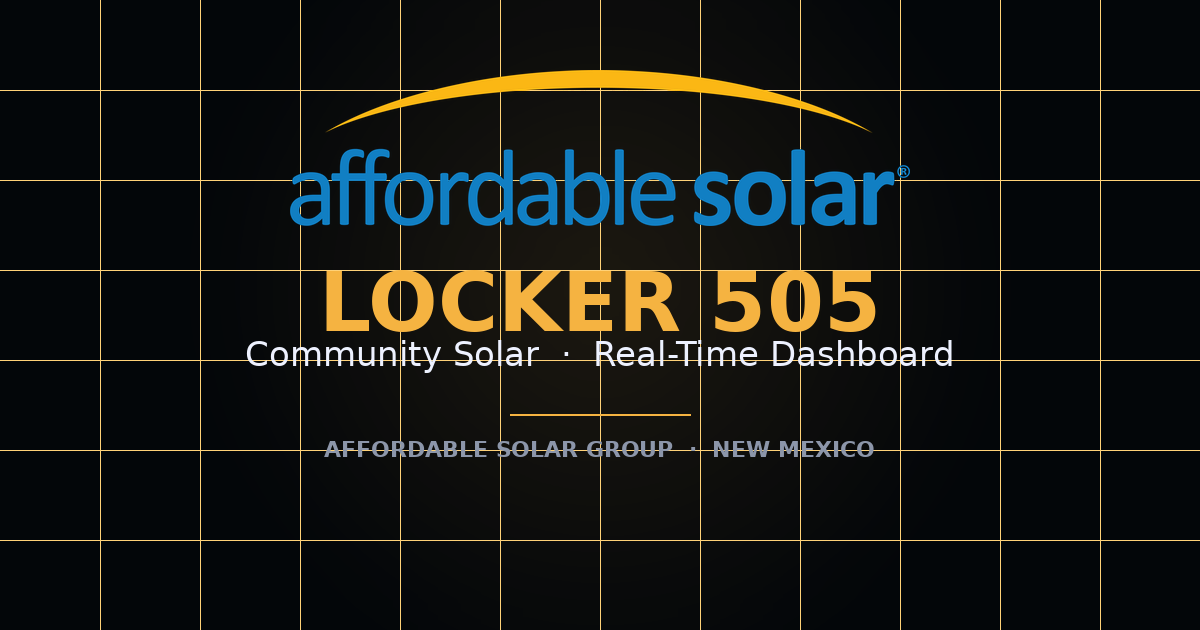
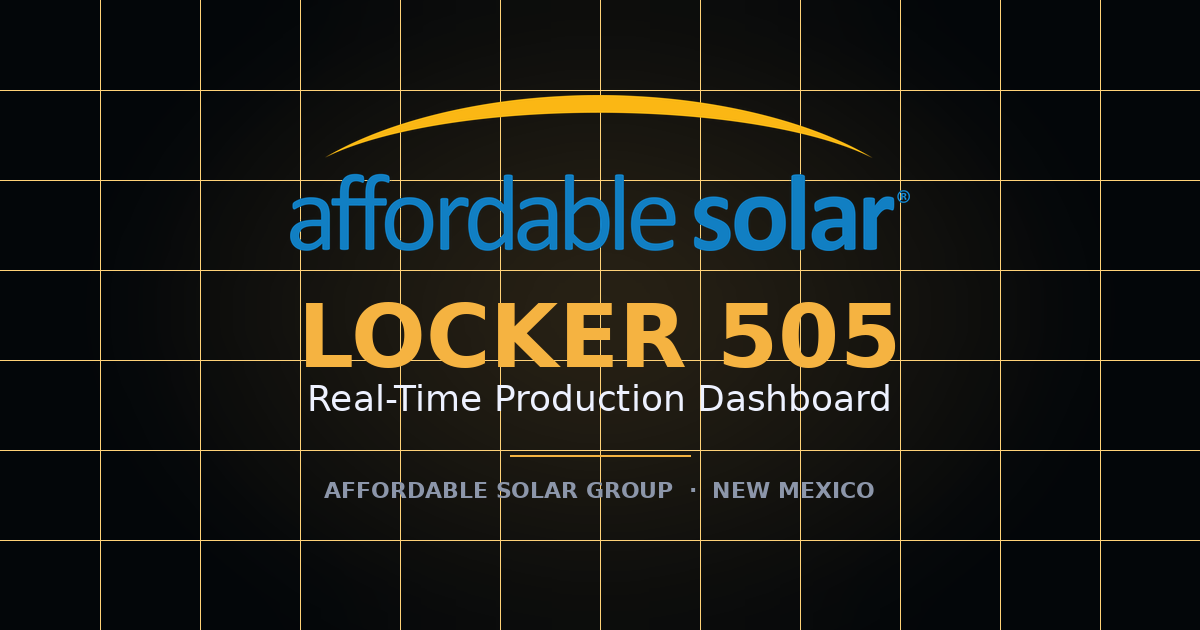
Per-site OG preview cards with site name in gold

diff --git a/scripts/generate-og-images.py b/scripts/generate-og-images.py
@@ -85,23 +85,25 @@ def load_font(path, size):
 
 
 def draw_background(img: Image.Image):
-    """Matte-black panel with gold grid lines + radial glow behind the logo."""
+    """Matte-black panel with subtle gold grid + a warm glow behind the logo."""
     draw = ImageDraw.Draw(img, "RGBA")
 
-    # Soft gold radial glow centered roughly where the logo + headline sit.
+    # Big soft gold radial glow, brighter/bigger than before so the card feels
+    # lit up rather than flat. Roughly centered behind the logo + headline.
     glow = Image.new("RGBA", (W, H), (0, 0, 0, 0))
     gdraw = ImageDraw.Draw(glow)
-    cx, cy = W // 2, H // 2 - 30
-    for r in range(420, 40, -40):
-        alpha = max(0, min(255, int(28 * (1 - r / 420))))
+    cx, cy = W // 2, 310
+    for r in range(520, 40, -24):
+        # Peak alpha ~44 near center, tapers to 0 at edge.
+        alpha = max(0, min(255, int(44 * (1 - r / 520))))
         gdraw.ellipse(
-            [cx - r, cy - r, cx + r, cy + r],
-            fill=(255, 190, 80, alpha),
+            [cx - r, cy - int(r * 0.72), cx + r, cy + int(r * 0.72)],
+            fill=(255, 195, 90, alpha),
         )
-    glow = glow.filter(ImageFilter.GaussianBlur(40))
+    glow = glow.filter(ImageFilter.GaussianBlur(50))
     img.alpha_composite(glow)
 
-    # Grid — evenly spaced vertical + horizontal lines.
+    # Grid — subtle, evenly spaced.
     cols, rows = 12, 7
     for i in range(1, cols):
         x = int(W * i / cols)
@@ -111,10 +113,10 @@ def draw_background(img: Image.Image):
         draw.line([(0, y), (W, y)], fill=GRID, width=1)
 
 
-def paste_logo(img: Image.Image) -> int:
+def paste_logo(img: Image.Image, y: int = 80) -> int:
     """Paste the affordable solar logo centered horizontally; return y-bottom."""
     if not LOGO.exists():
-        return 220
+        return y + 160
     logo = Image.open(LOGO).convert("RGBA")
     # Target width ~620px; preserve aspect ratio.
     target_w = 620
@@ -122,7 +124,6 @@ def paste_logo(img: Image.Image) -> int:
     target_h = int(logo.height * ratio)
     logo = logo.resize((target_w, target_h), Image.LANCZOS)
     x = (W - target_w) // 2
-    y = 70
     img.alpha_composite(logo, (x, y))
     return y + target_h
 
@@ -145,34 +146,39 @@ def fit_text(text: str, font_path: str, max_width: int, max_size: int, min_size:
 def draw_card(display_name: str, out_path: Path):
     img = Image.new("RGBA", (W, H), BG + (255,))
     draw_background(img)
-    logo_bottom = paste_logo(img)
+
+    # Logo sits a bit lower than center-of-top so there's breathing room on top.
+    logo_bottom = paste_logo(img, y=95)
 
     draw = ImageDraw.Draw(img)
 
-    # Big gold headline — auto-size to fit so "GLOBAL GIVE A BOOK" and "WESST"
-    # both look balanced.
+    # Big gold headline — auto-size to fit. Target size matches the original
+    # "COMMUNITY SOLAR" headline so WESST, WINGS FOR LIFE, and GLOBAL GIVE A
+    # BOOK all land at a similar visual weight.
     headline = display_name.upper()
-    head_font, head_w, _ = fit_text(headline, FONT_BOLD, max_width=980, max_size=82, min_size=44)
-    head_y = logo_bottom + 28
+    head_font, head_w, _ = fit_text(
+        headline, FONT_BOLD, max_width=1040, max_size=88, min_size=48,
+    )
+    head_y = logo_bottom + 34
     draw.text(((W - head_w) // 2, head_y), headline, fill=GOLD, font=head_font)
     head_h = head_font.getbbox(headline)[3] - head_font.getbbox(headline)[1]
 
-    # Subtitle — "Community Solar · Real-Time Dashboard"
-    sub_font = load_font(FONT_REGULAR, 34)
-    subtitle = "Community Solar  ·  Real-Time Dashboard"
+    # Subtitle — keep the original phrasing ("Real-Time Production Dashboard")
+    # so these cards read the same as the generic one Tyler liked.
+    sub_font = load_font(FONT_REGULAR, 36)
+    subtitle = "Real-Time Production Dashboard"
     sub_w = sub_font.getbbox(subtitle)[2] - sub_font.getbbox(subtitle)[0]
-    sub_y = head_y + head_h + 18
+    sub_y = head_y + head_h + 26
     draw.text(((W - sub_w) // 2, sub_y), subtitle, fill=WHITE, font=sub_font)
 
-    # Divider
-    divider_y = sub_y + 80
+    # Divider — short gold rule, same as original.
+    divider_y = sub_y + 78
     draw.line(
         [(W // 2 - 90, divider_y), (W // 2 + 90, divider_y)],
-        fill=GOLD + (140,) if False else GOLD,
-        width=2,
+        fill=GOLD, width=2,
     )
 
-    # Footer
+    # Footer — muted "AFFORDABLE SOLAR GROUP · NEW MEXICO"
     foot_font = load_font(FONT_BOLD, 22)
     footer = "AFFORDABLE SOLAR GROUP  ·  NEW MEXICO"
     foot_w = foot_font.getbbox(footer)[2] - foot_font.getbbox(footer)[0]
